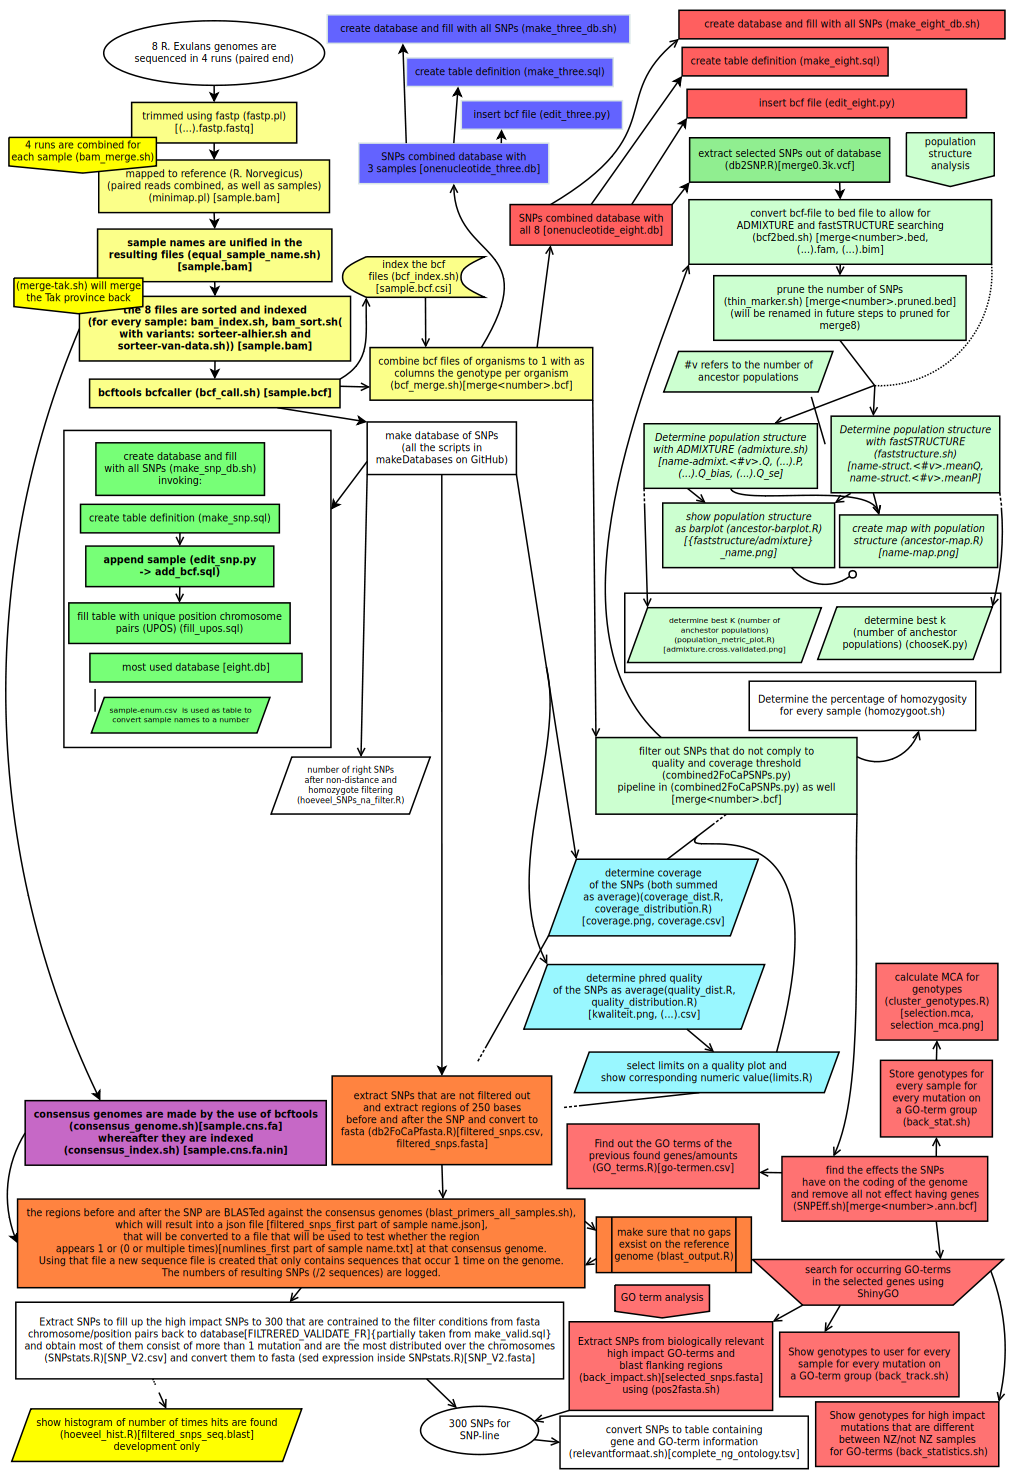
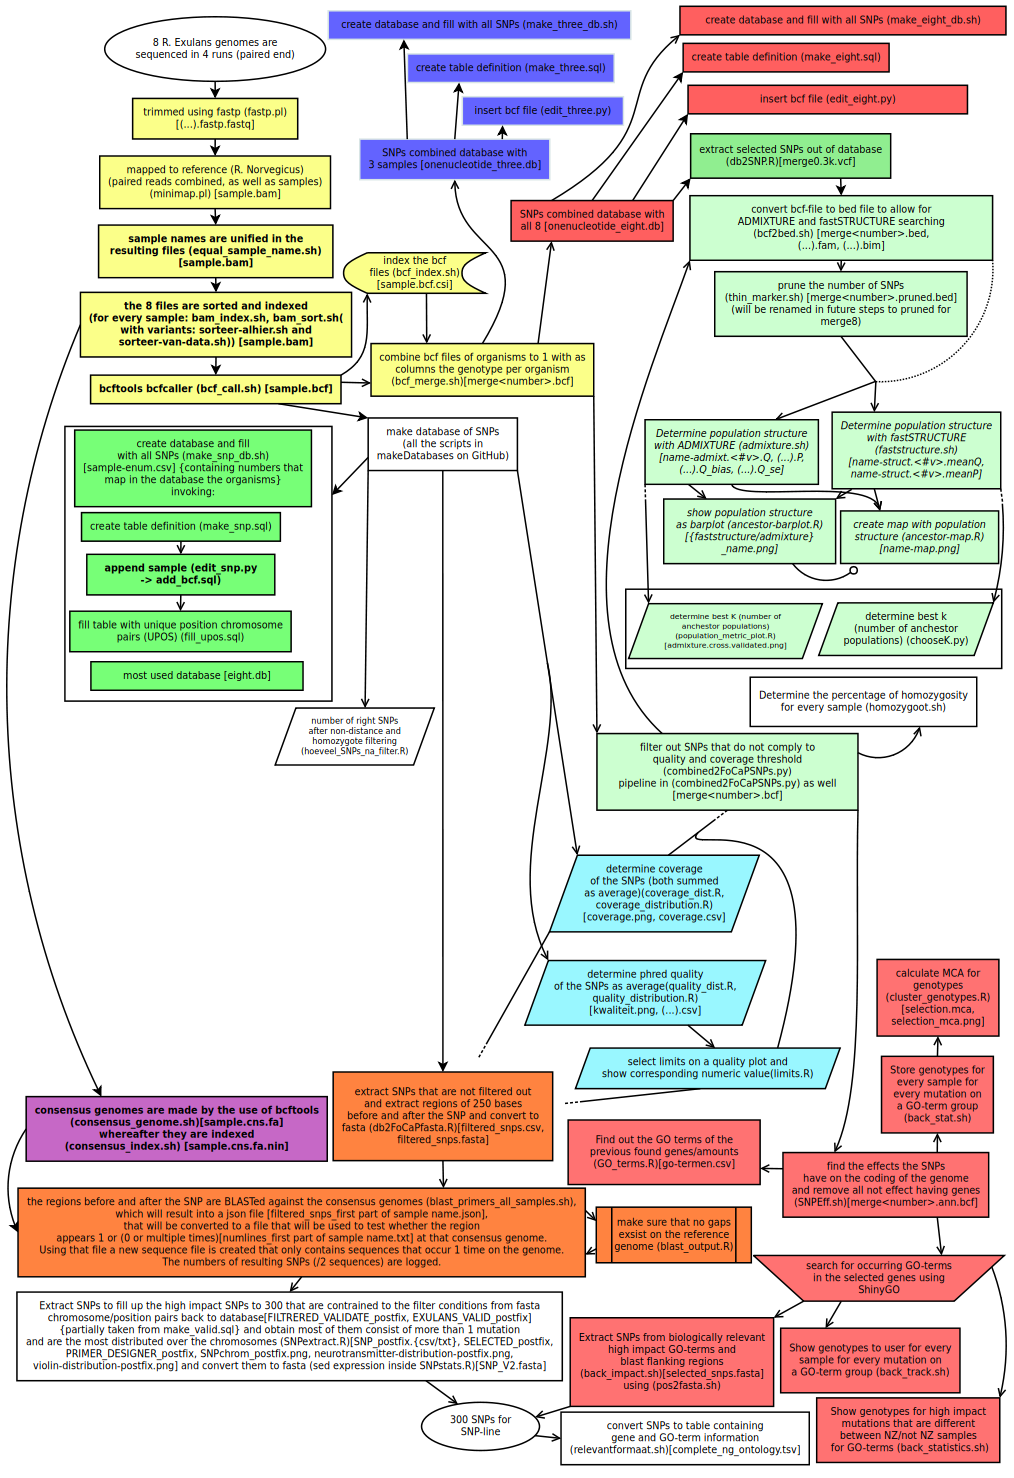
last step in workflow working (from fastq to SNPs), changed flowchart to reflect changes and improvements, and renamed last file in the workflow, also added instructions to have X client support inside the docker container

diff --git a/script/README.md b/script/README.md
@@ -9,18 +9,17 @@ Next to that the bigger flowchart is structured in the following ways:
 * boxes
   - boxes that are circles represent symbolical start- and stop- points of the analysis
   - most boxes represent 1 or no script, some represent 2
-  - parallellogram boxes are used to either explain something about a specific part in the flow, or as a very last result of something.
+  - parallellogram boxes are used as the very last result of something.
   - white boxes might indicate the script belongs to a directory, but is not uploaded, yet, they might also be white because of represeting "other"
   - boxes that are bold, means this should be executed for every sample
   - boxes that are italic, means this should be executed for every number of *K* (ancestor populations)
-  - boxes that contain five lines that do not contain scripts explain a part of the flowchart
 * textual conventions
   - script names are explained in between \(these characters\)
-  - output is explained in between \[these characters\] this is almost always filenames, but occasionally this can be a database table, which is represented by fully use of UPPERCASE.
+  - output is explained in between \[these characters\] this is almost always filenames, but occasionally this can be a database table, which is represented by fully use of UPPERCASE, except maybe the word postfix.
   - output of \(...\).xyz means the input filename, without the last extension (.something part of the filename) and added .xyz
-  - output filename that contains *sample* is symbolical. Then the output file(s) will be the sample name.
+  - output filename that contains *sample* is symbolical. Then the output file(s) will be the sample name, the same applies to postfix.
   - output containing \<this characters\> means a number
-  - output containing {a/b}c means either ac or bc
+  - output containing {a/b}c ac and bc
   - {} outside of output brackets means more explained about that box
 * arrows
   - normal arrows represent flow of data

diff --git a/README.md b/README.md
@@ -6,7 +6,7 @@ The source tree is:
 ├───data - data (on Docker image) and yml file to reflect the data for first steps of the flowchart
 ├───local-data - data and yml file to reflect the data for first steps of the flowchart to use in the pipeline
 ├───doc
-│   ├───flowchart - flowchart images to show in /script/\* folders
+│   ├───flowchart - flowchart images to show in /script/* folders
 │   ├───stepsToSNPs - explaination of SNPs in English language
 │   └───translations - translation of 2 articles of AAE Van Der Geer in the Dutch language
 ├───lib
@@ -46,10 +46,23 @@ and this repeated for every file you have. Note the relativeness of the paths si
 
 The docker-image might be invoked using
 ```bash
-docker build -t changing-invaders:v0.5.11 .
+docker build -t changing-invaders:v0.9 .
 # local-data could of course be changed to every folder that contains your data and the files.yml file
-docker run -v $PWD/local-data:/var/data/data -ti changing-invaders:v0.5.11 ./fastqTo100SNPs.sh
+docker run -v $PWD/local-data:/var/data/data -ti changing-invaders:v0.9 ./fastqTo100SNPs.sh
 ```
+optionally one can directly see the results of ggplot (without writing to a file) using this method: first run on the host:
+```
+XSOCK=/tmp/.X11-unix
+XAUTH=/tmp/.docker.xauth
+xauth nlist :0 | sed -e 's/^..../ffff/' | xauth -f $XAUTH nmerge -
+```
+and then call docker with these arguments:
+```bash
+-v $XSOCK:$XSOCK -v $XAUTH:$XAUTH -e XAUTHORITY=$XAUTH
+```
+added after $PWD/local-data:/var/data/data
+and within the container execute: `export DISPLAY=:0`
+Of course this will not work on a Windows system or a system that has no X server available.
 
 Many scripts take some time to run(especially in scripts/readsToVariants folder). Because of this the slurm system is used.
 This is a system that manages jobs on a server. Therefore a lot of (bash)scripts in this repository make use of sbatch and the following structure:
